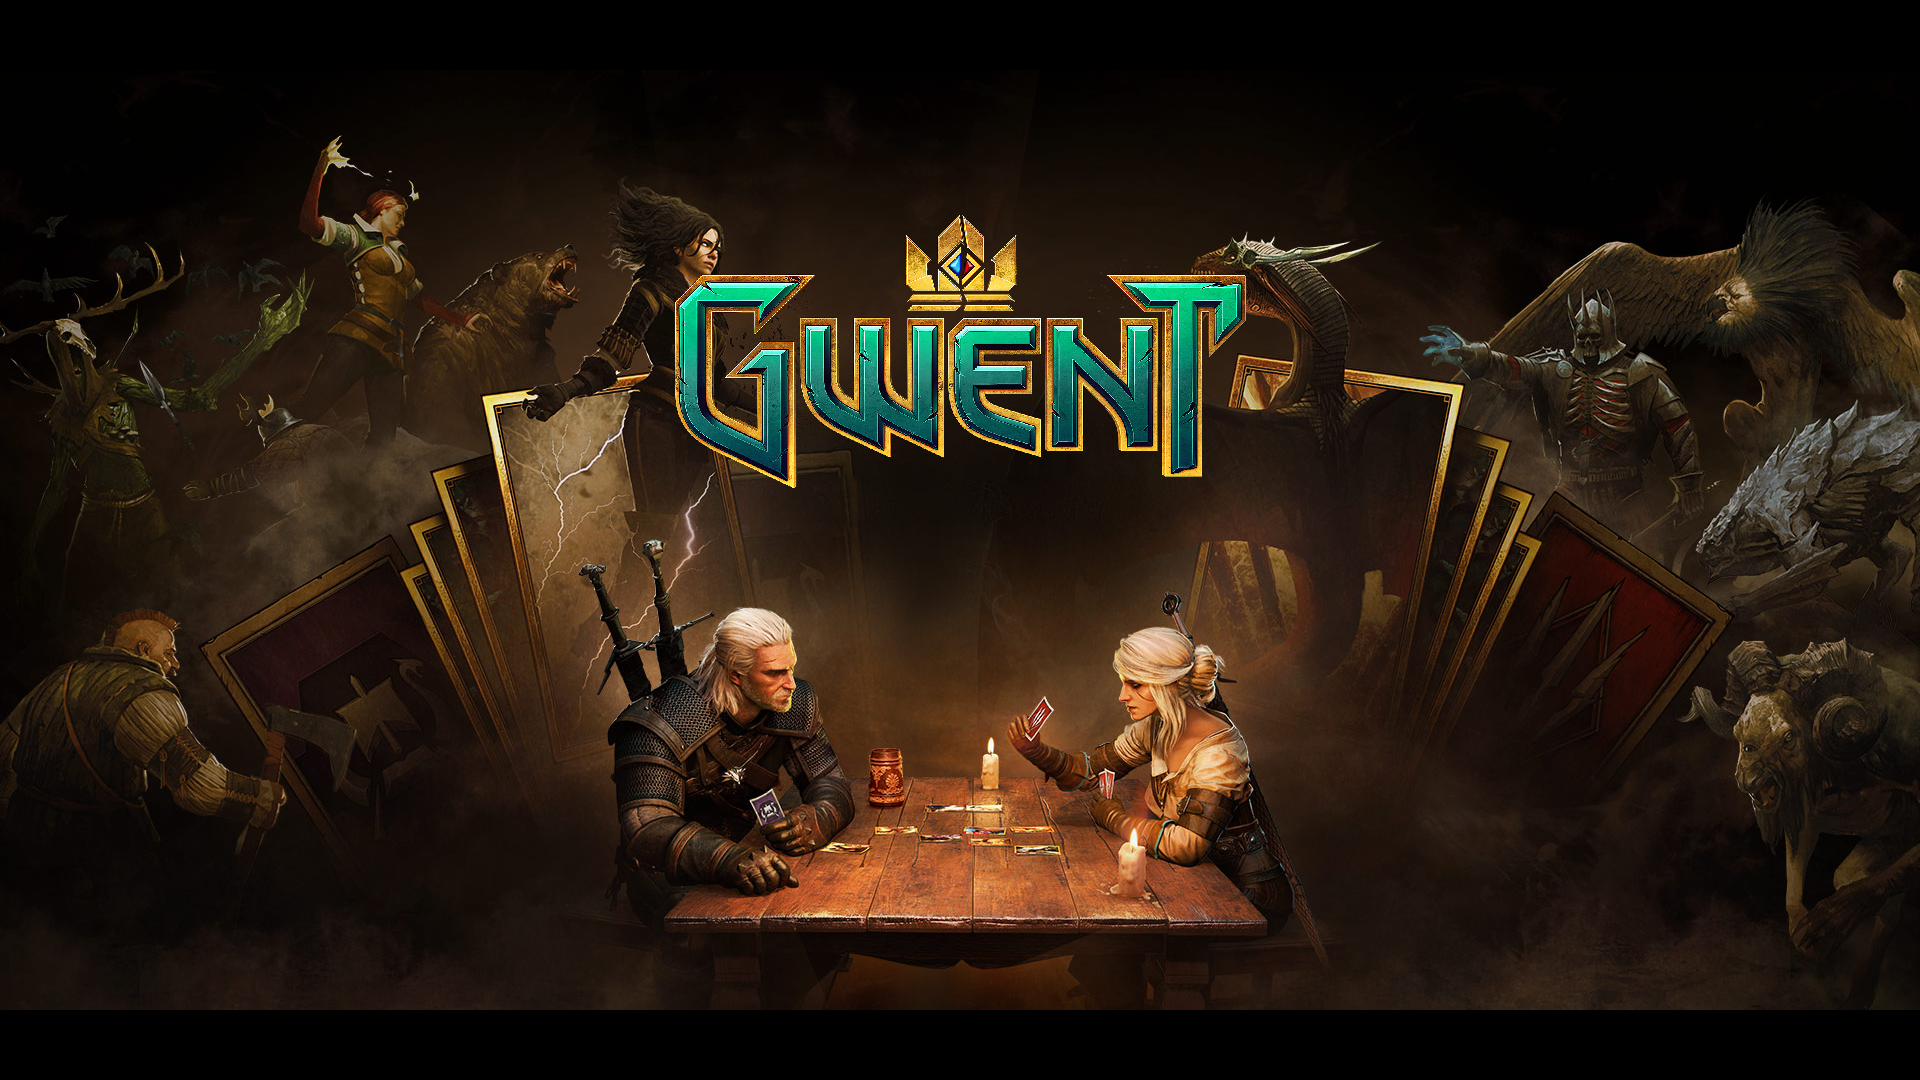
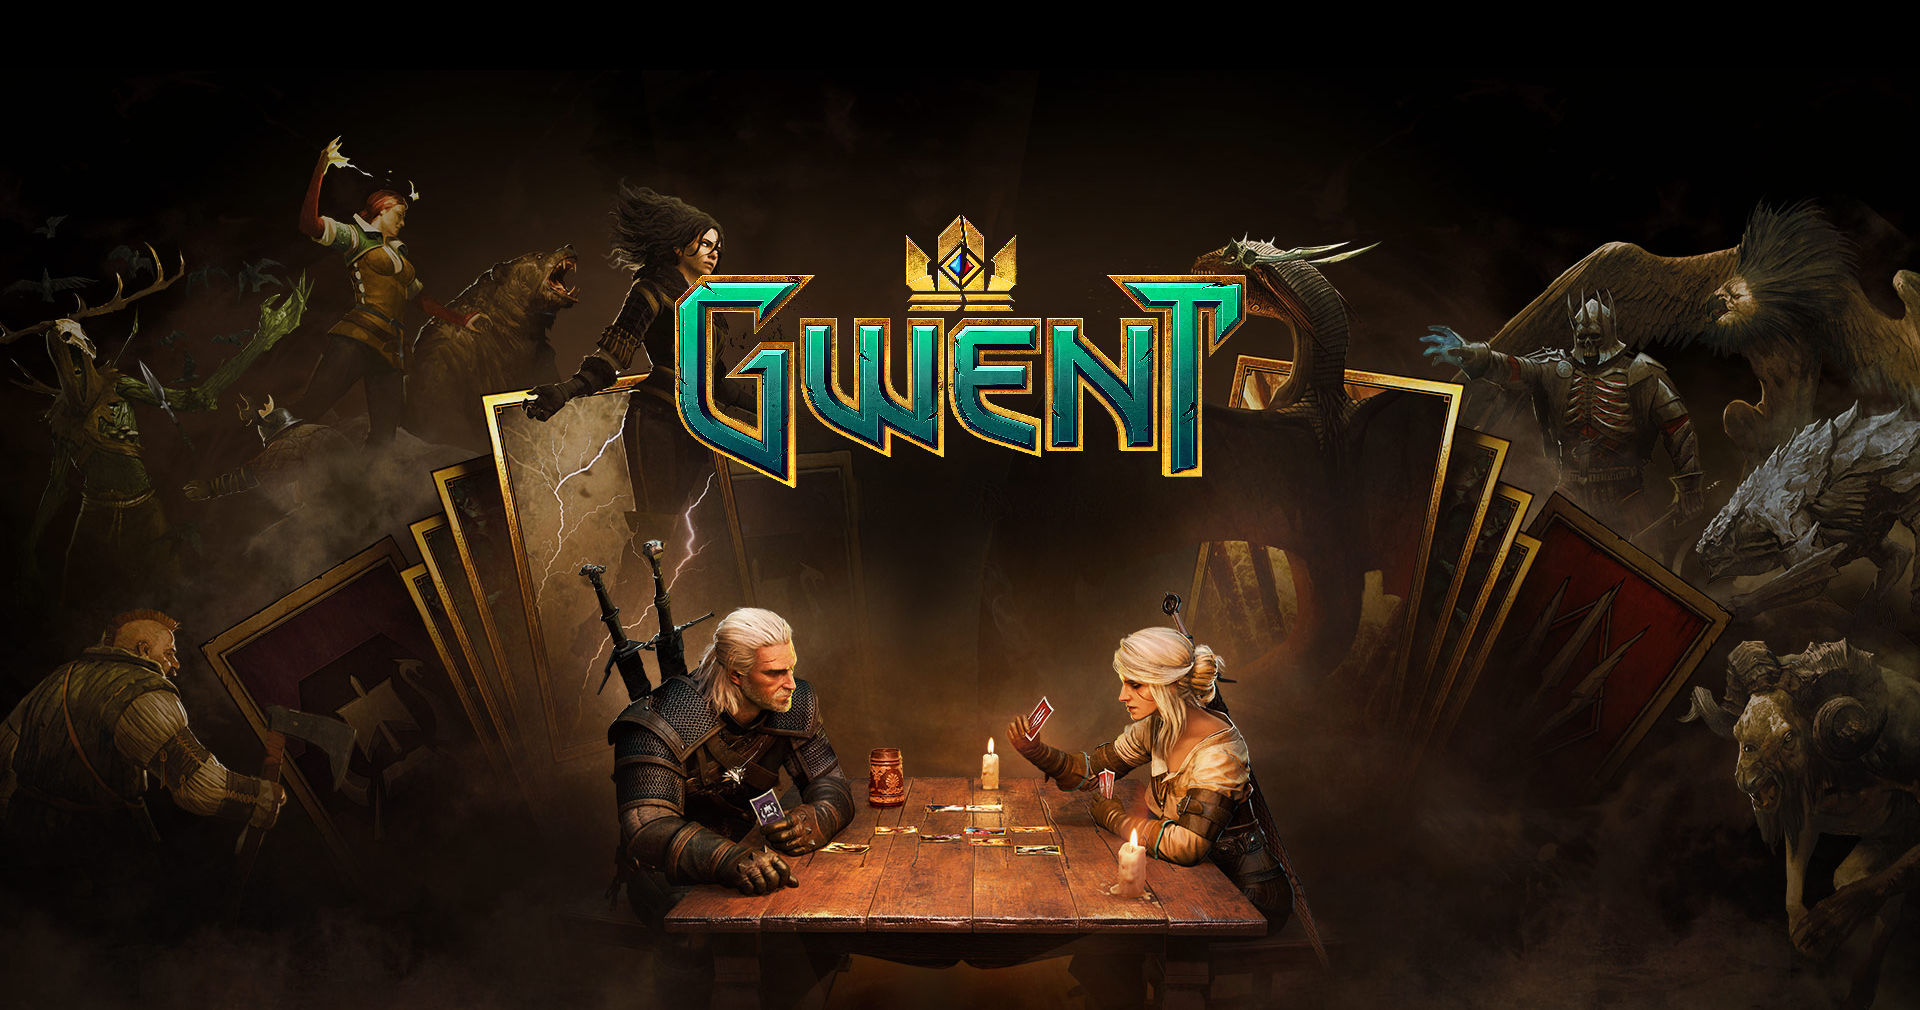
Main menu: the key art without its black band, covering the screen
The cover image had 70 rows of black letterbox baked in at the bottom,
showing as a black strip under the menu. They are cropped off (the art
itself is untouched, 1920 x 1010; its top already fades to black), and
the menu scales the art to cover the screen whatever its shape, trimming
its edges rather than showing bars. "Legacy" is placed on the art by the
image's own size.

Changed region(s): [[0.0, 0.1228, 1.0, 1.0], [0.0, 0.2455, 0.0938, 0.4604]]

diff --git a/GwentCardGame/Assets/Scripts/MainMenu/LegacyTitle.cs b/GwentCardGame/Assets/Scripts/MainMenu/LegacyTitle.cs
@@ -7,9 +7,8 @@ using UnityEngine.UI;
 // spacing as they fade in and the rules draw outwards; then, every few seconds, a soft light runs across the letters.
 public class LegacyTitle : MonoBehaviour
 {
-    // Where the logo is in the key art (Resources/Background/gwent_cover 1.png, 1920 x 1080): centred, its letters
+    // Under the logo in the key art (Resources/Background/gwent_cover 1.png, 1920 px wide): centred, the logo's letters
     // ending 487 px from the top
-    private static readonly Vector2 ArtSize = new Vector2(1920, 1080);
     private static readonly Vector2 UnderLogo = new Vector2(960, 518);
 
     private const float Delay = 0.35f;        // after the menu opens
@@ -31,17 +30,12 @@ public class LegacyTitle : MonoBehaviour
     private Image[] diamonds;
     private float age;
 
-    // Over the menu's key art: in a box the art's shape, fitted to the background as the art is, so the word stays under
-    // the logo whatever the screen's shape
-    public static LegacyTitle Create(RectTransform background)
+    // On the menu's key art (an image exactly the art's shape), so the word stays under the logo whatever the screen's shape
+    public static LegacyTitle Create(Image art)
     {
-        RectTransform art = UIKit.Rect("KeyArt", background).Stretch();
-        AspectRatioFitter fit = art.gameObject.AddComponent<AspectRatioFitter>();
-        fit.aspectMode = AspectRatioFitter.AspectMode.FitInParent;
-        fit.aspectRatio = ArtSize.x / ArtSize.y;
-
-        RectTransform root = UIKit.Rect("Legacy", art);
-        Vector2 anchor = new Vector2(UnderLogo.x / ArtSize.x, 1 - UnderLogo.y / ArtSize.y);
+        Vector2 size = art.sprite != null ? art.sprite.rect.size : new Vector2(1920, 1010);
+        RectTransform root = UIKit.Rect("Legacy", art.rectTransform);
+        Vector2 anchor = new Vector2(UnderLogo.x / size.x, 1 - UnderLogo.y / size.y);
         root.Place(anchor, Vector2.zero, new Vector2(800, 64));
         LegacyTitle title = root.gameObject.AddComponent<LegacyTitle>();
         title.Build();

diff --git a/GwentCardGame/Assets/Scripts/MainMenu/MainMenu.cs b/GwentCardGame/Assets/Scripts/MainMenu/MainMenu.cs
@@ -39,10 +39,18 @@ public class MainMenu : MonoBehaviour
         AddItem(list, "Settings", OpenSettings);
         AddItem(list, "Quit", QuitGame);
 
-        // "Legacy" under the key art's logo
+        // The key art covers the screen whatever its shape (its edges are cropped rather than bars shown), "Legacy" under
+        // its logo
         Transform background = transform.parent != null ? transform.parent.Find("Background") : null;
-        if (background != null)
-            LegacyTitle.Create((RectTransform)background);
+        Image art = background != null ? background.GetComponent<Image>() : null;
+        if (art != null && art.sprite != null)
+        {
+            art.preserveAspect = false;
+            AspectRatioFitter cover = art.gameObject.AddComponent<AspectRatioFitter>();
+            cover.aspectMode = AspectRatioFitter.AspectMode.EnvelopeParent;
+            cover.aspectRatio = art.sprite.rect.width / art.sprite.rect.height;
+            LegacyTitle.Create(art);
+        }
 
         TextMeshProUGUI note = UIKit.Text(root, "Fan project, not affiliated with CD PROJEKT RED", UIKit.TextStyle.Caption);
         note.rectTransform.Place(new Vector2(0, 0), new Vector2(156, 48), new Vector2(800, 36), new Vector2(0, 0));
